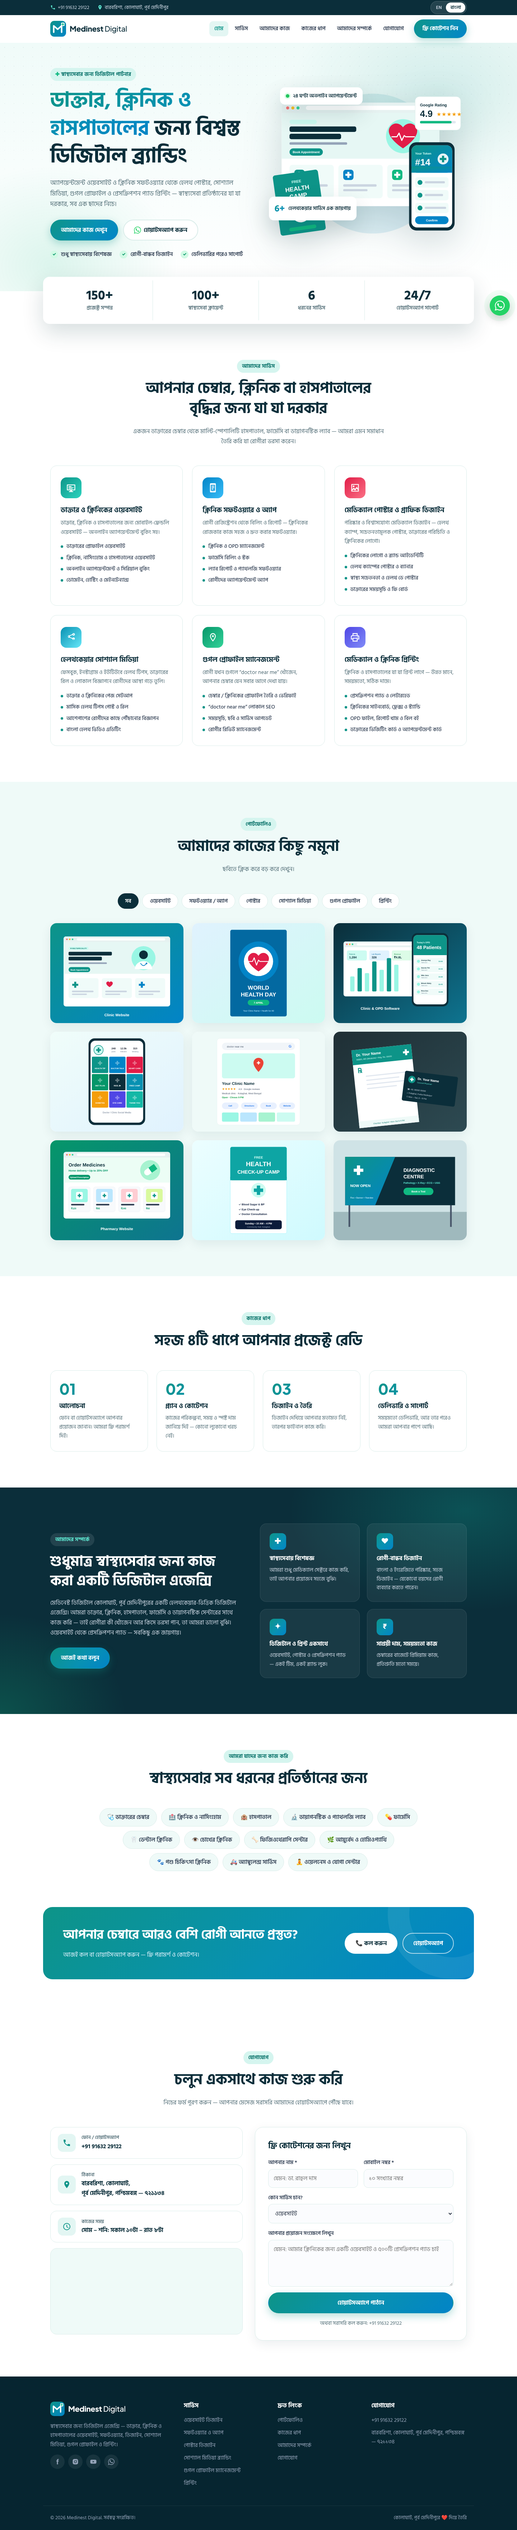
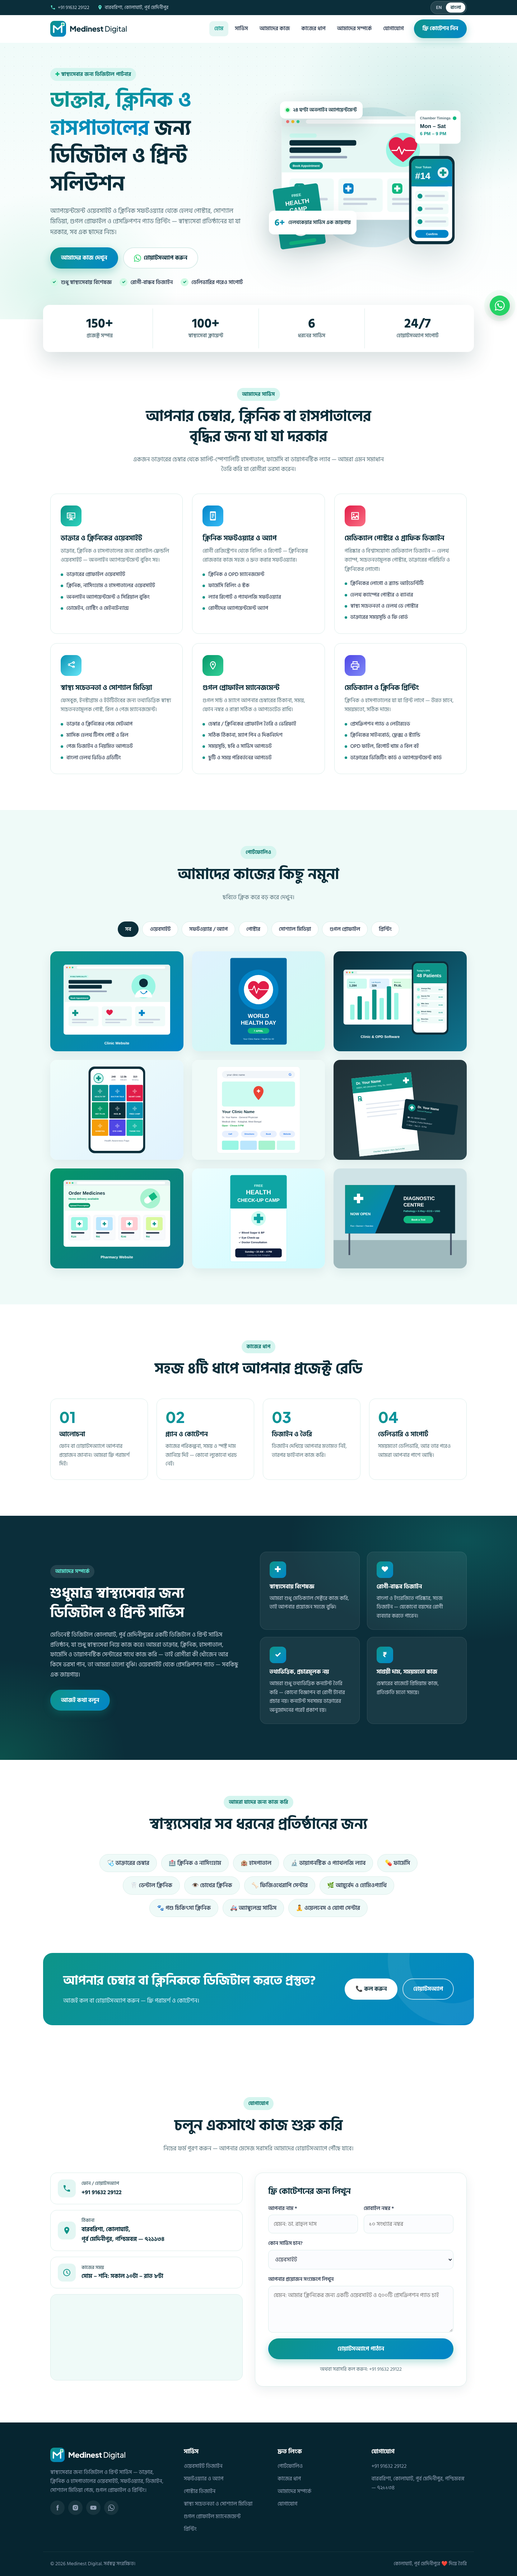
Reposition site as digital & print services (not agency/marketing): remove ads, ratings, reviews, near-me SEO wording
Claude-Session: https://claude.ai/code/session_01NmwAmtgg5wxPimM57nZhem

diff --git a/medinest-digital/index.html b/medinest-digital/index.html
@@ -3,9 +3,9 @@
 <head>
   <meta charset="UTF-8">
   <meta name="viewport" content="width=device-width, initial-scale=1.0">
-  <title>Medinest Digital | Healthcare Digital Agency — Websites, Software, Branding &amp; Printing for Doctors &amp; Clinics</title>
-  <meta name="description" content="Medinest Digital — healthcare-focused digital agency: websites with online appointment, clinic & pharmacy software, medical poster design, healthcare social media, Google Business Profile and prescription pad printing for doctors, clinics, hospitals and pharmacies. Kolaghat, Purba Medinipur, West Bengal.">
-  <meta name="keywords" content="doctor website, clinic website, hospital website, healthcare digital marketing, clinic software, prescription pad printing, website design Kolaghat, web design Purba Medinipur, app development West Bengal, poster design, social media branding, Google Business Profile, printing Kolaghat, Medinest Digital">
+  <title>Medinest Digital | Digital &amp; Print Services for Doctors, Clinics &amp; Hospitals</title>
+  <meta name="description" content="Medinest Digital — digital & print services for healthcare: websites with online appointment, clinic & pharmacy software, medical poster design, health-awareness social media pages, Google Business Profile setup and prescription pad printing for doctors, clinics, hospitals and pharmacies. Kolaghat, Purba Medinipur, West Bengal.">
+  <meta name="keywords" content="doctor website, clinic website, hospital website, clinic software, prescription pad printing, website design Kolaghat, web design Purba Medinipur, app development West Bengal, poster design, social media branding, Google Business Profile, printing Kolaghat, Medinest Digital">
   <meta name="theme-color" content="#0b2e3a">
   <meta property="og:title" content="Medinest Digital — Digital Partner for Healthcare">
   <meta property="og:description" content="Websites, clinic software, medical design, social media, Google profile & printing for doctors, clinics and hospitals.">
@@ -61,7 +61,7 @@
   <div class="container hero-grid">
     <div class="hero-text reveal">
       <span class="eyebrow"><span class="plus">✚</span> <span data-bn="স্বাস্থ্যসেবার জন্য ডিজিটাল পার্টনার">Digital Partner for Healthcare</span></span>
-      <h1 data-bn="<span class='grad'>ডাক্তার, ক্লিনিক ও হাসপাতালের</span> জন্য বিশ্বস্ত ডিজিটাল ব্র্যান্ডিং">Trusted digital branding for <span class="grad">doctors, clinics &amp; hospitals</span></h1>
+      <h1 data-bn="<span class='grad'>ডাক্তার, ক্লিনিক ও হাসপাতালের</span> জন্য ডিজিটাল ও প্রিন্ট সলিউশন">Digital &amp; print solutions for <span class="grad">doctors, clinics &amp; hospitals</span></h1>
       <p class="lead" data-bn="অ্যাপয়েন্টমেন্ট ওয়েবসাইট ও ক্লিনিক সফটওয়্যার থেকে হেলথ পোস্টার, সোশ্যাল মিডিয়া, গুগল প্রোফাইল ও প্রেসক্রিপশন প্যাড প্রিন্টিং — স্বাস্থ্যসেবা প্রতিষ্ঠানের যা যা দরকার, সব এক ছাদের নিচে।">From appointment websites and clinic software to health posters, social media, Google profile and prescription-pad printing — everything a healthcare practice needs, under one roof.</p>
       <div class="hero-actions">
         <a href="#portfolio" class="btn btn-primary btn-lg" data-bn="আমাদের কাজ দেখুন">View Our Work</a>
@@ -136,24 +136,24 @@
       </article>
       <article class="service-card reveal">
         <div class="s-icon c4"><svg viewBox="0 0 24 24"><path d="M18 2a3 3 0 1 1-2.83 4l-6.3 3.15a3 3 0 0 1 0 1.7l6.3 3.15A3 3 0 1 1 15 15.8l-6.3-3.15a3 3 0 1 1 0-5.3L15 4.2A3 3 0 0 1 18 2zm0 2a1 1 0 1 0 0 2 1 1 0 0 0 0-2zM6 9a1 1 0 1 0 0 2 1 1 0 0 0 0-2zm12 7a1 1 0 1 0 0 2 1 1 0 0 0 0-2z"/></svg></div>
-        <h3 data-bn="হেলথকেয়ার সোশ্যাল মিডিয়া">Healthcare Social Media</h3>
-        <p data-bn="ফেসবুক, ইনস্টাগ্রাম ও ইউটিউবে হেলথ টিপস, ডাক্তারের রিল ও লোকাল বিজ্ঞাপনে রোগীদের আস্থা গড়ে তুলি।">Build patient trust on Facebook, Instagram &amp; YouTube with health tips, doctor reels and local ads.</p>
+        <h3 data-bn="স্বাস্থ্য সচেতনতা ও সোশ্যাল মিডিয়া">Health Awareness &amp; Social Media</h3>
+        <p data-bn="ফেসবুক, ইনস্টাগ্রাম ও ইউটিউবের জন্য তথ্যভিত্তিক স্বাস্থ্য সচেতনতামূলক পোস্ট, রিল ও পেজ ম্যানেজমেন্ট।">Informative health-awareness posts, reels and page management for Facebook, Instagram &amp; YouTube.</p>
         <ul>
           <li data-bn="ডাক্তার ও ক্লিনিকের পেজ সেটআপ">Doctor / clinic page setup</li>
           <li data-bn="মাসিক হেলথ টিপস পোস্ট ও রিল">Monthly health-tip posts &amp; reels</li>
-          <li data-bn="আশেপাশের রোগীদের কাছে পৌঁছানোর বিজ্ঞাপন">Local patient-reach ads</li>
+          <li data-bn="পেজ ডিজাইন ও নিয়মিত আপডেট">Page design &amp; regular updates</li>
           <li data-bn="বাংলা হেলথ ভিডিও এডিটিং">Bengali health video editing</li>
         </ul>
       </article>
       <article class="service-card reveal">
         <div class="s-icon c5"><svg viewBox="0 0 24 24"><path d="M12 2a7 7 0 0 0-7 7c0 5.25 7 13 7 13s7-7.75 7-13a7 7 0 0 0-7-7zm0 2a5 5 0 0 1 5 5c0 3.1-3.2 7.6-5 9.9-1.8-2.3-5-6.8-5-9.9a5 5 0 0 1 5-5zm0 1.8.96 1.95 2.15.31-1.55 1.52.36 2.14L12 10.7l-1.92 1.02.36-2.14-1.55-1.52 2.15-.31L12 5.8z"/></svg></div>
         <h3 data-bn="গুগল প্রোফাইল ম্যানেজমেন্ট">Google Profile Management</h3>
-        <p data-bn="রোগী যখন গুগলে “doctor near me” খোঁজেন, আপনার চেম্বার যেন সবার আগে দেখা যায়।">When patients search “doctor near me”, make sure they find you first on Google Search &amp; Maps.</p>
+        <p data-bn="গুগল সার্চ ও ম্যাপে আপনার চেম্বারের ঠিকানা, সময়, ফোন নম্বর ও রাস্তা সঠিক ও আপডেটেড রাখি।">We keep your chamber's address, timings, phone number and directions correct and up to date on Google Search &amp; Maps.</p>
         <ul>
           <li data-bn="চেম্বার / ক্লিনিকের প্রোফাইল তৈরি ও ভেরিফাই">Clinic profile creation &amp; verification</li>
-          <li data-bn="“doctor near me” লোকাল SEO">Local SEO for “doctor near me”</li>
+          <li data-bn="সঠিক ঠিকানা, ম্যাপ পিন ও দিকনির্দেশ">Correct address, map pin &amp; directions</li>
           <li data-bn="সময়সূচি, ছবি ও সার্ভিস আপডেট">Timings, photos &amp; service updates</li>
-          <li data-bn="রোগীর রিভিউ ম্যানেজমেন্ট">Patient review management</li>
+          <li data-bn="ছুটি ও সময় পরিবর্তনের আপডেট">Holiday &amp; timing-change updates</li>
         </ul>
       </article>
       <article class="service-card reveal">
@@ -214,14 +214,14 @@
   <div class="container about-grid">
     <div class="about-text reveal">
       <span class="eyebrow light" data-bn="আমাদের সম্পর্কে">About Medinest Digital</span>
-      <h2 data-bn="শুধুমাত্র স্বাস্থ্যসেবার জন্য কাজ করা একটি ডিজিটাল এজেন্সি">A digital agency built only for healthcare</h2>
-      <p data-bn="মেডিনেস্ট ডিজিটাল কোলাঘাট, পূর্ব মেদিনীপুরের একটি হেলথকেয়ার-ভিত্তিক ডিজিটাল এজেন্সি। আমরা ডাক্তার, ক্লিনিক, হাসপাতাল, ফার্মেসি ও ডায়াগনস্টিক সেন্টারের সাথে কাজ করি — তাই রোগীরা কী খোঁজেন আর কিসে ভরসা পান, তা আমরা ভালো বুঝি। ওয়েবসাইট থেকে প্রেসক্রিপশন প্যাড — সবকিছু এক জায়গায়।">Medinest Digital is a healthcare-focused digital agency in Kolaghat, Purba Medinipur. We work with doctors, clinics, hospitals, pharmacies and diagnostic centres — so we understand what patients look for and what earns their trust. From websites to prescription pads, everything in one place.</p>
+      <h2 data-bn="শুধুমাত্র স্বাস্থ্যসেবার জন্য ডিজিটাল ও প্রিন্ট সার্ভিস">Digital &amp; print services, made only for healthcare</h2>
+      <p data-bn="মেডিনেস্ট ডিজিটাল কোলাঘাট, পূর্ব মেদিনীপুরের একটি ডিজিটাল ও প্রিন্ট সার্ভিস প্রতিষ্ঠান, যা শুধু স্বাস্থ্যসেবা নিয়ে কাজ করে। আমরা ডাক্তার, ক্লিনিক, হাসপাতাল, ফার্মেসি ও ডায়াগনস্টিক সেন্টারের সাথে কাজ করি — তাই রোগীরা কী খোঁজেন আর কিসে ভরসা পান, তা আমরা ভালো বুঝি। ওয়েবসাইট থেকে প্রেসক্রিপশন প্যাড — সবকিছু এক জায়গায়।">Medinest Digital is a digital &amp; print services provider in Kolaghat, Purba Medinipur, working only with healthcare. We work with doctors, clinics, hospitals, pharmacies and diagnostic centres — so we understand what patients look for and what earns their trust. From websites to prescription pads, everything in one place.</p>
       <a href="#contact" class="btn btn-primary btn-lg" data-bn="আজই কথা বলুন">Talk to Us Today</a>
     </div>
     <div class="why-grid">
       <div class="why reveal"><div class="why-ico">✚</div><h4 data-bn="স্বাস্থ্যসেবায় বিশেষজ্ঞ">Healthcare Specialists</h4><p data-bn="আমরা শুধু মেডিক্যাল সেক্টরে কাজ করি, তাই আপনার প্রয়োজন সহজে বুঝি।">We work only with the medical sector, so we understand your needs.</p></div>
       <div class="why reveal"><div class="why-ico">♥</div><h4 data-bn="রোগী-বান্ধব ডিজাইন">Patient-Friendly Design</h4><p data-bn="বাংলা ও ইংরেজিতে পরিষ্কার, সহজ ডিজাইন — যেকোনো বয়সের রোগী ব্যবহার করতে পারেন।">Clear, calm designs in Bengali &amp; English that patients of any age can use.</p></div>
-      <div class="why reveal"><div class="why-ico">✦</div><h4 data-bn="ডিজিটাল ও প্রিন্ট একসাথে">Digital + Print Together</h4><p data-bn="ওয়েবসাইট, পোস্টার ও প্রেসক্রিপশন প্যাড — একই টিম, একই ব্র্যান্ড লুক।">Website, posters and prescription pads — one team, one brand look.</p></div>
+      <div class="why reveal"><div class="why-ico">✓</div><h4 data-bn="তথ্যভিত্তিক, প্রচারমূলক নয়">Informative, Not Promotional</h4><p data-bn="আমরা শুধু তথ্যভিত্তিক কনটেন্ট তৈরি করি — কোনো বিজ্ঞাপন বা রোগী টানার প্রচার নয়। কনটেন্ট সবসময় ডাক্তারের অনুমোদনের পরেই প্রকাশ হয়।">We create factual, information-first content — no advertising or patient solicitation. Nothing goes live without the doctor's approval.</p></div>
       <div class="why reveal"><div class="why-ico">₹</div><h4 data-bn="সাশ্রয়ী দাম, সময়মতো কাজ">Affordable &amp; On Time</h4><p data-bn="চেম্বারের বাজেটে প্রিমিয়াম কাজ, প্রতিশ্রুতি মতো সময়ে।">Premium work that fits a chamber's budget, delivered on the promised date.</p></div>
     </div>
   </div>
@@ -255,7 +255,7 @@
 <section class="cta-band">
   <div class="container cta-inner reveal">
     <div>
-      <h2 data-bn="আপনার চেম্বারে আরও বেশি রোগী আনতে প্রস্তুত?">Ready to bring more patients to your practice?</h2>
+      <h2 data-bn="আপনার চেম্বার বা ক্লিনিককে ডিজিটাল করতে প্রস্তুত?">Ready to take your practice digital?</h2>
       <p data-bn="আজই কল বা হোয়াটসঅ্যাপ করুন — ফ্রি পরামর্শ ও কোটেশন।">Call or WhatsApp today — free consultation &amp; quote.</p>
     </div>
     <div class="cta-actions">
@@ -302,7 +302,7 @@
             <option value="Website" data-bn="ওয়েবসাইট">Website</option>
             <option value="Software / App" data-bn="সফটওয়্যার / অ্যাপ">Software / App</option>
             <option value="Poster / Graphic Design" data-bn="পোস্টার / গ্রাফিক ডিজাইন">Poster / Graphic Design</option>
-            <option value="Social Media Branding" data-bn="সোশ্যাল মিডিয়া ব্র্যান্ডিং">Social Media Branding</option>
+            <option value="Social Media Page" data-bn="সোশ্যাল মিডিয়া পেজ">Social Media Page</option>
             <option value="Google Profile Management" data-bn="গুগল প্রোফাইল ম্যানেজমেন্ট">Google Profile Management</option>
             <option value="Printing" data-bn="প্রিন্টিং">Printing</option>
             <option value="Other" data-bn="অন্যান্য">Other</option>
@@ -324,7 +324,7 @@
   <div class="container footer-grid">
     <div>
       <a href="#home" class="logo logo-light"><img src="images/logo.svg" alt="" width="40" height="40"><span class="logo-text"><strong>Medinest</strong> Digital</span></a>
-      <p data-bn="স্বাস্থ্যসেবার জন্য ডিজিটাল এজেন্সি — ডাক্তার, ক্লিনিক ও হাসপাতালের ওয়েবসাইট, সফটওয়্যার, ডিজাইন, সোশ্যাল মিডিয়া, গুগল প্রোফাইল ও প্রিন্টিং।">The healthcare digital agency — websites, software, design, social media, Google profile &amp; printing for doctors, clinics and hospitals.</p>
+      <p data-bn="স্বাস্থ্যসেবার জন্য ডিজিটাল ও প্রিন্ট সার্ভিস — ডাক্তার, ক্লিনিক ও হাসপাতালের ওয়েবসাইট, সফটওয়্যার, ডিজাইন, সোশ্যাল মিডিয়া পেজ, গুগল প্রোফাইল ও প্রিন্টিং।">Digital &amp; print services for healthcare — websites, software, design, social media pages, Google profile &amp; printing for doctors, clinics and hospitals.</p>
       <!-- Put your real social links in href="" -->
       <div class="socials">
         <a href="#" aria-label="Facebook"><svg viewBox="0 0 24 24"><path d="M14 8V6.2c0-.8.2-1.2 1.4-1.2H17V2h-2.6C11.3 2 10 3.5 10 6v2H8v3h2v11h4V11h2.7l.3-3h-3z"/></svg></a>
@@ -339,7 +339,7 @@
         <li><a href="#services" data-bn="ওয়েবসাইট ডিজাইন">Website Design</a></li>
         <li><a href="#services" data-bn="সফটওয়্যার ও অ্যাপ">Software &amp; Apps</a></li>
         <li><a href="#services" data-bn="পোস্টার ডিজাইন">Poster Design</a></li>
-        <li><a href="#services" data-bn="সোশ্যাল মিডিয়া ব্র্যান্ডিং">Social Media Branding</a></li>
+        <li><a href="#services" data-bn="স্বাস্থ্য সচেতনতা ও সোশ্যাল মিডিয়া">Health Awareness &amp; Social Media</a></li>
         <li><a href="#services" data-bn="গুগল প্রোফাইল ম্যানেজমেন্ট">Google Profile Management</a></li>
         <li><a href="#services" data-bn="প্রিন্টিং">Printing</a></li>
       </ul>

diff --git a/medinest-digital/README.md b/medinest-digital/README.md
@@ -1,4 +1,4 @@
-# Medinest Digital — হেলথকেয়ার ডিজিটাল এজেন্সির ওয়েবসাইট
+# Medinest Digital — স্বাস্থ্যসেবার জন্য ডিজিটাল ও প্রিন্ট সার্ভিসের ওয়েবসাইট
 
 English (ডিফল্ট) + বাংলা — উপরের ডানদিকের **EN / বাংলা** বোতামে ভাষা বদলায়।
 
